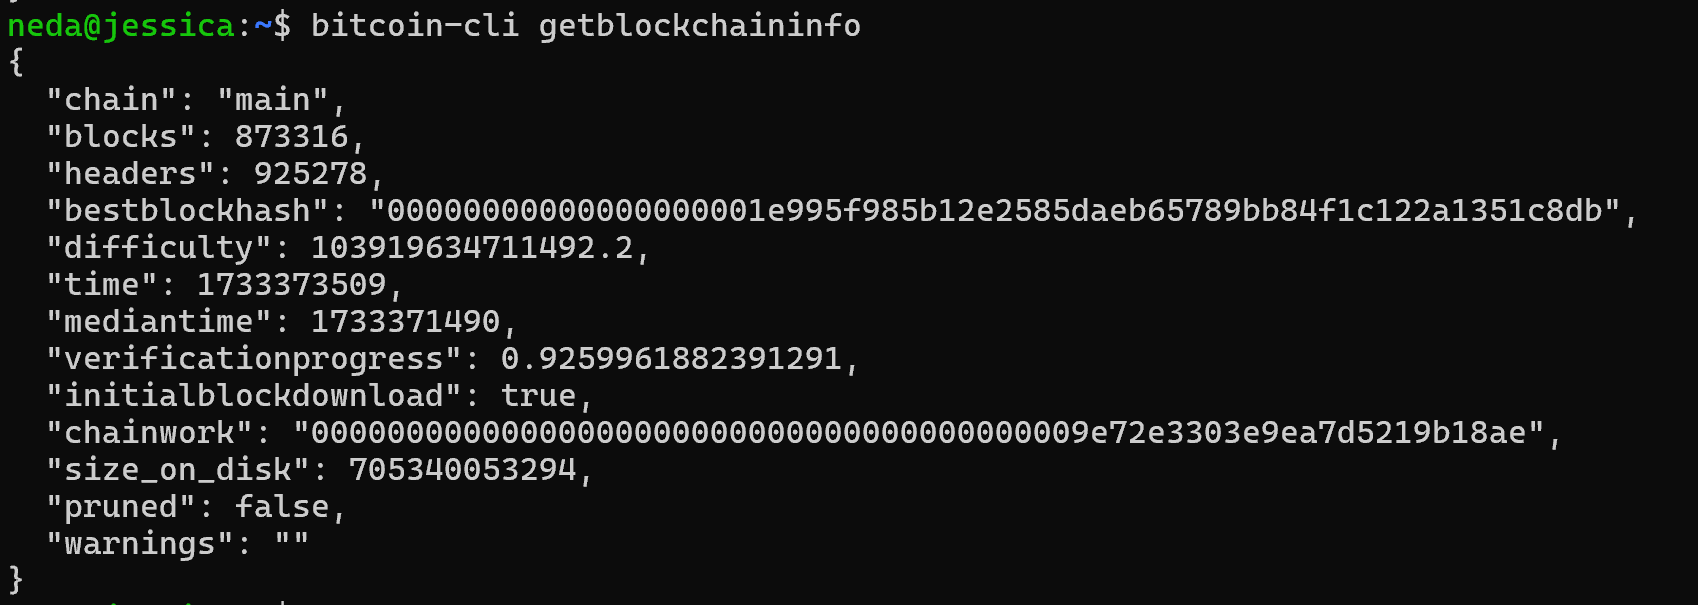
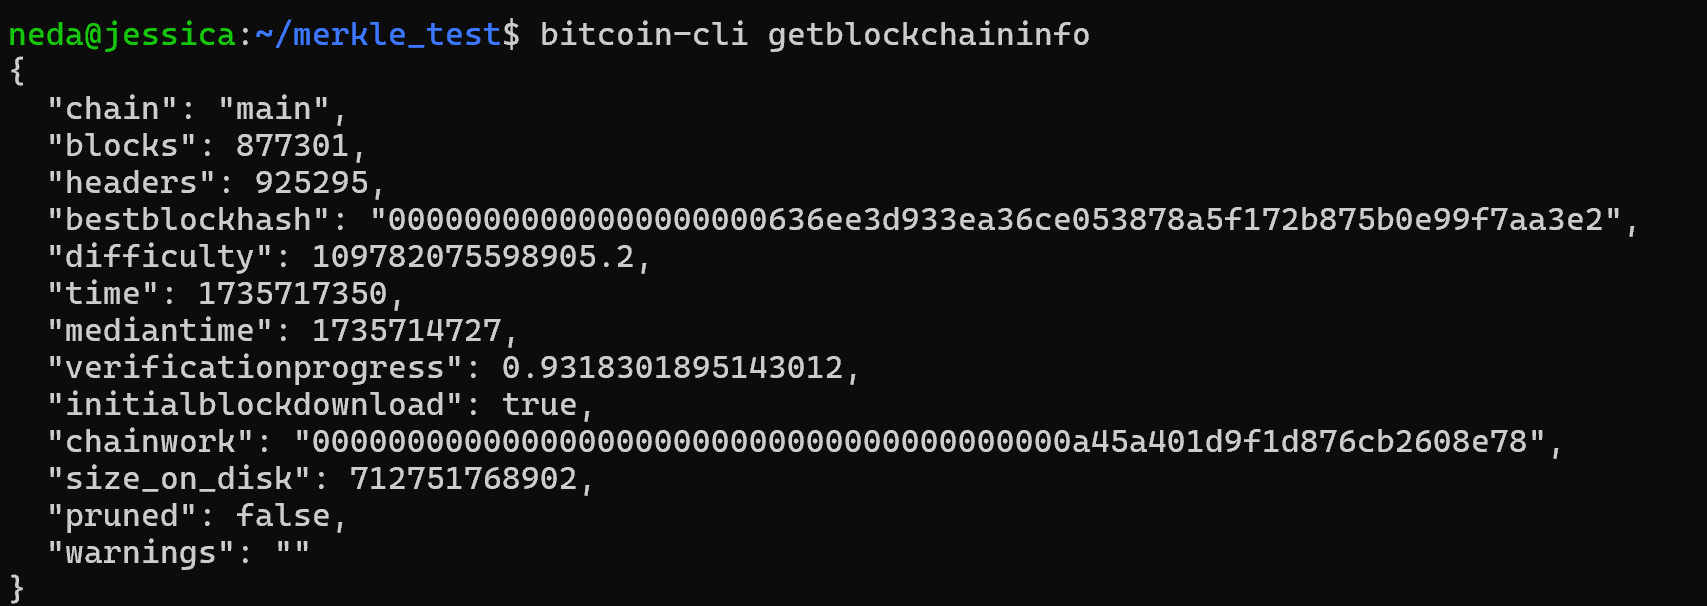
readme

Changed region(s): [[0.0312, 0.1488, 0.9676, 0.9521], [0.0, 0.0298, 0.6555, 0.119], [0.0, 0.9521, 0.0312, 0.9818]]

diff --git a/README.md b/README.md
@@ -38,6 +38,10 @@ Libbitcoin-System biblioteka reikalinga Merkle medžio implementacijai pagal Bit
 #include <bitcoin/bitcoin.hpp>
 
 // Merkle Root Hash
+// Funkcija dirba su little-endian bc::hash_digest tipais.
+// Byte order konversija vyksta išorėje:
+// - Įvedimas: bc::hash_literal() konvertuoja big-endian → little-endian
+// - Išvedimas: bc::encode_base16() konvertuoja little-endian → big-endian
 bc::hash_digest create_merkle(bc::hash_list& merkle) {
     // Stop if hash list is empty or contains one element
     if (merkle.empty())
@@ -76,6 +80,7 @@ bc::hash_digest create_merkle(bc::hash_list& merkle) {
         // DEBUG output
         std::cout << "Current merkle hash list:" << std::endl;
         for (const auto& hash: merkle)
+            // bc::encode_base16() konvertuoja little-endian → big-endian rodymui
             std::cout << "  " << bc::encode_base16(hash) << std::endl;
         std::cout << std::endl;
     }
@@ -205,6 +210,8 @@ Kompiliavimo susidūriau su versijų nesuderinamumu – nauja libbitcoin-system 
 | 6. Alternatyvus sprendimas (PAVYKO) | Algoritmo adaptacija projektui | Merkle algoritmas adaptuotas su `std::string` ir `generate_hash()` | Stabilus sprendimas | Originalios `create_merkle()` logika pritaikyta C++17 projektui |
 | 7. Galutinis kompiliavimas (PAVYKO) | Kompiliavimas su projekto Makefile | `make clean && make` | Sėkmingai sukompiliuota, blockchain veikia | **Užduotis išspręsta** |
 
+Perrašyta Merkle Tree funkcija `merkle_wsl.txt` faile.
+
 </details>
 
 
@@ -221,6 +228,7 @@ Kompiliavimo susidūriau su versijų nesuderinamumu – nauja libbitcoin-system 
 - **Transakcijų skaičius:** 6
[1 lines of base64/hex data omitted]
 
+
 ### Kodo atnaujinimas
 
 Pakeičiau `merkle.cpp` failo `main()` funkciją su naujais hash'ais:
@@ -229,6 +237,8 @@ Pakeičiau `merkle.cpp` failo `main()` funkciją su naujais hash'ais:
 int main() {
     // Transakcijų hash'ai iš bloko #100012
     bc::hash_list tx_hashes{{
+        // bc::hash_literal() - ČITA vyksta konversija iš big-endian (block explorer)
+        // į little-endian (Bitcoin protokolo bc::hash_digest formatas)
[3 lines of base64/hex data omitted]
@@ -237,22 +247,19 @@ int main() {
[1 lines of base64/hex data omitted]
     }};
 
+    // create_merkle() dirba su little-endian hash'ais, jokios konversijos čia nevyksta
     const bc::hash_digest merkle_root = create_merkle(tx_hashes);
+    
+    // bc::encode_base16() - ČITA vyksta konversija iš little-endian (bc::hash_digest)
+    // atgal į big-endian (string formatas išvedimui)
     std::cout << "Merkle Root Hash: " << bc::encode_base16(merkle_root) << std::endl;
     
     return 0;
 }
 ```
 
-**Sugeneruotas Merkle root:**
-```
[1 lines of base64/hex data omitted]
-```
-
-**Tikrasis Merkle root iš bloko #100012:**
-```
[1 lines of base64/hex data omitted]
-```
+**Rezultatas**
+![alt text](img/image9.png)
 
 ### Išvada: algoritmas veikia teisingai.
 
@@ -287,39 +294,37 @@ bc::hash_digest create_merkle(bc::hash_list& merkle) {
 
 **Ką padariau:**
 
-**1. Sukūriau naują `create_merkle_adapted()` funkciją:**
+**1. Duomenų tipų pritaikymas:**
 
-Tai 1:1 libbitcoin `create_merkle()` algoritmo kopija, tik su projekto tipais:
+Sukūriau `create_merkle_adapted()` - 1:1 libbitcoin algoritmo kopija, tik su projekto duomenų tipais:
 
-```cpp
-std::string create_merkle_adapted(std::vector<std::string> merkle_hashes)
-```
-
-| Kas pakeista | Originalas | Mano adaptacija |
+| Kas pakeista | Originalas (libbitcoin) | Adaptacija (prie esamo) |
 |--------------|-----------|-----------------|
 | **Grąžinamas tipas** | `bc::hash_digest` | `std::string` |
 | **Parametras** | `bc::hash_list&` (reference) | `std::vector<std::string>` (kopija) |
 | **Tuščias hash** | `bc::null_hash` | `std::string()` |
-| **Hash funkcija** | `bc::bitcoin_hash()` | `generate_hash()` (mano SHA-256) |
+| **Hash funkcija** | `bc::bitcoin_hash()` | `generate_hash()` (projekto SHA-256) |
 | **Iteracija** | `auto it = merkle.begin(); it += 2` | `for (size_t i = 0; i < size; i += 2)` |
+| **Byte order** | Automatinis (`bc::hash_literal()`) | Rankinis (reikia reversuoti testavimui) |
 
-**Algoritmas liko tas pats:**
+**Algoritmo logika nepakito:**
 1. Tikrinama tuščias/vienas elementas
 2. Dubliuojamas paskutinis, jei nelyginis skaičius
 3. Hash'inami poromis
 4. Kartojama, kol lieka vienas (root)
 
- 
-**Pagrindinis `MerkleTree::from_leaves()` metoo skirtumas:**
+**2. Pagrindinis `MerkleTree::from_leaves()`metodo skirtumas:**
 
-| Aspektas | Senoji implementacija | Nauja (libbitcoin stilius) |
+Projektas jau turėjo dubliavimo logiką, bet kitokią - inline ternary operatorių. Pakeičiau į libbitcoin stilių:
+
+| Aspektas | Prieš (v0.2) | Po (v0.3 su libbitcoin) |
 |----------|----------------------|---------------------------|
 | **Dubliavimo būdas** | Inline: `(i+1<size) ? cur[i+1] : cur[i]` | Explicit: `if (size%2!=0) push_back(back())` |
 | **Kada dubliuoja** | Hash'inimo metu (ternary) | Prieš hash'inimo ciklą (masyvo modifikacija) |
-| **Masyvo pakeitimas** | Nekeičia originalaus masyvo | Keičia - prideda dublikatą `[A,B,C]→[A,B,C,C]` |
-| **Kodo aiškumas** | Glausta, bet paslėpta logika | Aiški, dviejų žingsnių struktūra |
+| **Masyvo pakeitimas** | Nekeičia originalaus masyvo | Modifikuoja - prideda dublikatą `[A,B,C]→[A,B,C,C]` |
+| **Kodo aiškumas** | Glausta vienos eilutės išraiška | Aiški dviejų žingsnių struktūra |
 
-**Kodėl pakeitimas svarbus:** Libbitcoin būdas yra **eksplicitiškas** ir **lengviau sekti** - iš pradžių paruošiama lyginė pora, tada hash'inama. Tai atitinka Bitcoin Core ir kitų implementacijų stilių.
+**Kodėl pasikeitė:** Libbitcoin būdas yra **eksplicitiškas** - dubliavimas ir hash'inimas atskirti. Tai atitinka Bitcoin Core stilių ir lengviau sekti algoritmo eigą.
 
 ```cpp
 // Dabar naudoju libbitcoin algoritmo logiką
@@ -406,9 +411,9 @@ WSL2 yra daug lėtesnis nei realus Linux, todėl visi instaliavimai vyko labaaai
 
 | Parametras | Reikšmė |
 |------------|---------|
-| Blokų aukštis | 875,003 / 925,287 |
-| Progresas | 92.84% |
-| Blockchain dydis | ~708 GB |
+| Blokų aukštis | 877,301 / 925,295 |
+| Progresas | 93.18% |
+| Blockchain dydis | ~712 GB |
 | IBD (Initial Block Download) | **true** (dar vyksta) |
 | Connections | 10 (visi outbound) |
 | Inbound connections | **0** |
@@ -466,7 +471,7 @@ Patikrinimas per -> https://bitnodes.io/
 
 **Kada pradės veikti inbound?**
 
-Kai sinchronizacija pasieks ~99%, mazgas automatiškai pradės priimti įeinančius ryšius. Likę ~7% (~50,000 blokų), tai gali užtrukti dar kelias valandas WSL2 aplinkoje.
+Kai sinchronizacija pasieks ~99%, mazgas automatiškai pradės priimti įeinančius ryšius. Dar liko ~7% (~50,000 blokų).
 
 </details>
 
